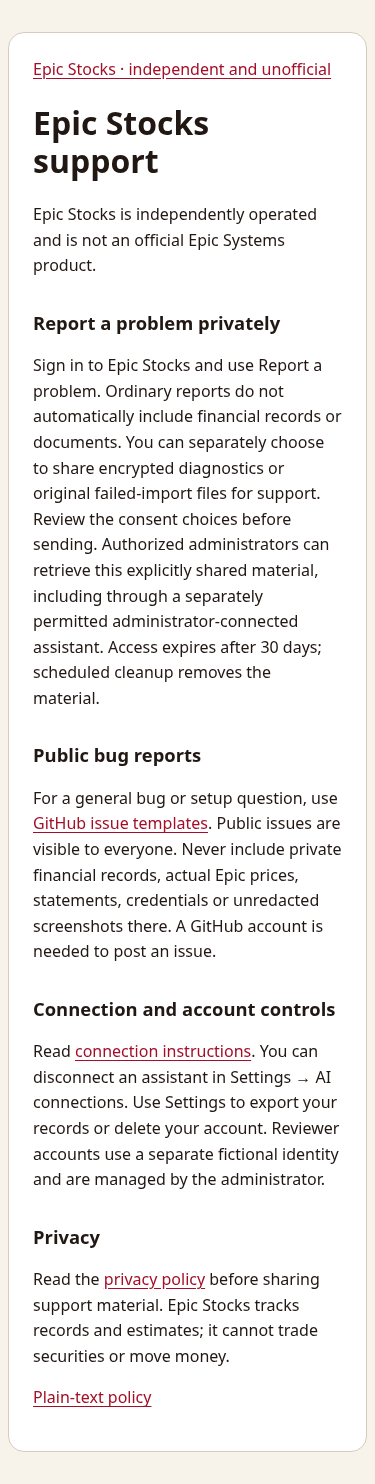
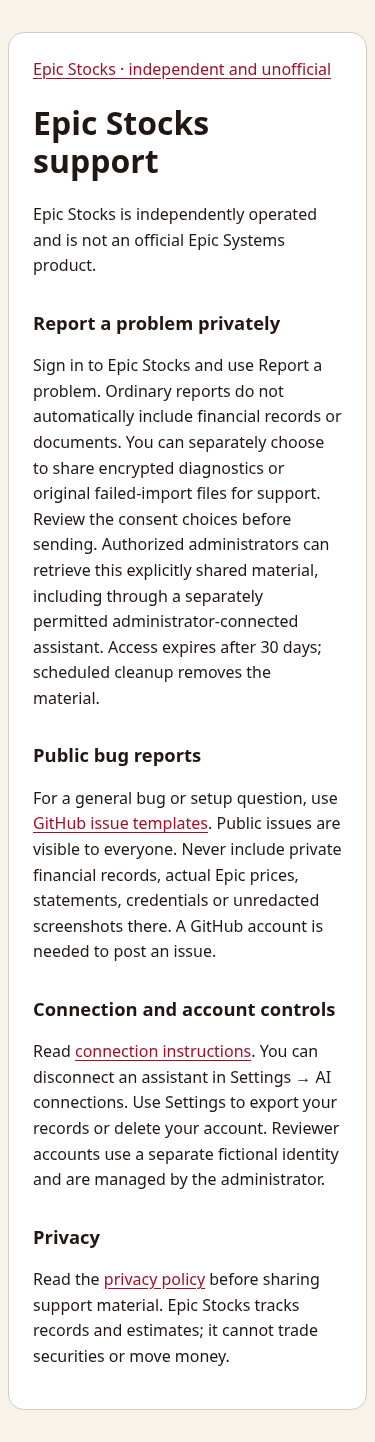
Preserve numbered privacy lists and llms document structure

Changed region(s): [[0.088, 0.0312, 0.9093, 0.9674]]

diff --git a/frontend/e2e/screenshots.spec.ts b/frontend/e2e/screenshots.spec.ts
@@ -1266,6 +1266,9 @@ test.describe('Public privacy screenshots', () => {
       expect((await new AxeBuilder({ page }).withTags(['wcag2a', 'wcag2aa', 'wcag21aa']).analyze()).violations).toEqual([])
       expect(await page.evaluate(() => document.documentElement.scrollWidth <= window.innerWidth)).toBe(true)
       await page.screenshot({ path: `${OUT}/public-privacy-${theme}-${size}.png` })
+      await expect(page.locator('ol')).toHaveCount(3)
+      await page.locator('ol').nth(1).scrollIntoViewIfNeeded()
+      await page.screenshot({ path: `${OUT}/public-privacy-lists-${theme}-${size}.png` })
     })
   }
 })

diff --git a/backend/scaffold/routers/public_privacy.py b/backend/scaffold/routers/public_privacy.py
@@ -18,15 +18,26 @@ def policy_text():
 
 
 def inline(text):
-    value = escape(text)
-    value = re.sub(r'\[([^\]]+)\]\((https://[^\s)]+)\)', r'<a href="\2">\1</a>', value)
-    return re.sub(r'\*\*([^*]+)\*\*', r'<strong>\1</strong>', value)
+    pattern = r'`([^`]+)`|\[([^\]]+)\]\((https://[^\s)]+)\)|\*\*([^*]+)\*\*'
+    parts, end = [], 0
+    for match in re.finditer(pattern, text):
+        parts.append(escape(text[end:match.start()]))
+        code, label, url, strong = match.groups()
+        if code is not None:
+            parts.append('<code>' + escape(code) + '</code>')
+        elif label is not None:
+            parts.append('<a href="' + escape(url, quote=True) + '">' + inline(label) + '</a>')
+        else:
+            parts.append('<strong>' + inline(strong) + '</strong>')
+        end = match.end()
+    parts.append(escape(text[end:]))
+    return ''.join(parts)
 
 
-def policy_html(text):
+def policy_html(text, *, title="Epic Stocks privacy policy", plain_policy=True):
     # Render only trusted-repository headings, paragraphs, lists and code. Raw
     # HTML is escaped; no document uploads or caller-selected paths are read.
-    parts, paragraph, listed, code = [], [], False, None
+    parts, paragraph, listed, code = [], [], None, None
     def flush():
         if paragraph:
             parts.append('<p>' + inline(' '.join(paragraph)) + '</p>')
@@ -34,6 +45,9 @@ def policy_html(text):
     for line in text.splitlines():
         if line.startswith('```'):
             flush()
+            if listed:
+                parts.append(f'</{listed}>')
+                listed = None
             if code is None:
                 code = []
             else:
@@ -43,28 +57,31 @@ def policy_html(text):
         if code is not None:
             code.append(line)
             continue
-        item = line.startswith('- ')
-        if listed and not item:
-            parts.append('</ul>')
-            listed = False
+        numbered = re.match(r'^\d+\. (.*)', line)
+        tag = 'ol' if numbered else 'ul' if line.startswith('- ') else None
+        item = numbered.group(1) if numbered else line[2:] if tag else None
+        if listed and listed != tag:
+            parts.append(f'</{listed}>')
+            listed = None
         if not line.strip():
             flush()
         elif line.startswith('#') and re.match(r'^#{1,6} ', line):
             flush()
             level = len(line) - len(line.lstrip('#'))
             parts.append(f'<h{level}>' + inline(line[level:].strip()) + f'</h{level}>')
-        elif item:
+        elif tag:
             flush()
             if not listed:
-                parts.append('<ul>')
-                listed = True
-            parts.append('<li>' + inline(line[2:]) + '</li>')
+                parts.append(f'<{tag}>')
+                listed = tag
+            parts.append('<li>' + inline(item) + '</li>')
         else:
             paragraph.append(line)
     flush()
     if listed:
-        parts.append('</ul>')
-    return '<!doctype html><html lang="en"><head><meta charset="utf-8"><meta name="viewport" content="width=device-width,initial-scale=1"><title>Epic Stocks privacy policy</title><link rel="stylesheet" href="/mcp-setup.css"></head><body><main><a href="/mcp-setup">Epic Stocks · independent and unofficial</a>' + ''.join(parts) + '<p><a href="/privacy.md">Plain-text policy</a></p></main></body></html>'
+        parts.append(f'</{listed}>')
+    footer = '<p><a href="/privacy.md">Plain-text policy</a></p>' if plain_policy else ''
+    return '<!doctype html><html lang="en"><head><meta charset="utf-8"><meta name="viewport" content="width=device-width,initial-scale=1"><title>' + escape(title) + '</title><link rel="stylesheet" href="/mcp-setup.css"></head><body><main><a href="/mcp-setup">Epic Stocks · independent and unofficial</a>' + ''.join(parts) + footer + '</main></body></html>'
 
 
 @router.api_route('/privacy-policy', methods=['GET', 'HEAD'])
@@ -99,5 +116,5 @@ Read [connection instructions](https://epic-stocks.com/mcp-setup). You can disco
 
 Read the [privacy policy](https://epic-stocks.com/privacy-policy) before sharing support material. Epic Stocks tracks records and estimates; it cannot trade securities or move money.
 '''
-    return HTMLResponse(policy_html(text).replace('<title>Epic Stocks privacy policy</title>', '<title>Epic Stocks support</title>'),
+    return HTMLResponse(policy_html(text, title='Epic Stocks support', plain_policy=False),
                         headers={'Cache-Control': 'public, max-age=300'})

diff --git a/backend/tests/test_public_privacy.py b/backend/tests/test_public_privacy.py
@@ -30,3 +30,21 @@ def test_public_support_is_readable_without_sign_in(client):
     assert 'Public issues are visible to everyone' in response.text
     assert '30 days' in response.text
     assert client.head('/support').status_code == 200
+
+
+def test_privacy_preserves_ordered_lists_and_inline_code(client):
+    body = client.get('/privacy-policy').text
+    assert body.count('<ol>') == 3
+    assert body.count('</ol>') == 3
+    assert '<li><strong>Self-host</strong>' in body
+    assert '<code>KEY_ENCRYPTION_KEY</code>' in body
+    assert '<a href="https://github.com/rahulshahepic/epic-stocks/blob/main/PRIVACY.md"><code>PRIVACY.md</code></a>' in body
+    assert '<code>[not a link](https://example.invalid)</code>' in policy_html('`[not a link](https://example.invalid)`')
+    assert 'Plain-text policy' not in client.get('/support').text
+
+
+def test_llms_document_starts_with_h1_and_keeps_policy_support_links(client):
+    text = client.get('/llms.txt').text
+    assert text.startswith('# Epic Stocks\n\n> ')
+    assert '[Privacy policy](https://epic-stocks.com/privacy-policy)' in text
+    assert '[Support](https://epic-stocks.com/support)' in text

diff --git a/backend/scaffold/routers/mcp_setup.py b/backend/scaffold/routers/mcp_setup.py
@@ -99,11 +99,11 @@ def llms():
     first_run = doc['first_run']
     import_steps = first_run['import']
     lines = [
-        'Privacy policy: ' + doc['privacy_policy_url'],
-        'Support: ' + doc['support_url'],
         f'# {doc["name"]}', '', f'> {doc["purpose"]}', '',
         f'- [MCP setup]({doc["guide_url"]}): Connection and OAuth sign-in steps.',
         f'- [Setup JSON]({doc["server_url"]}/setup.json): Server configuration and first-run instructions.',
+        f'- [Privacy policy]({doc["privacy_policy_url"]}): Data use, recipients and retention.',
+        f'- [Support]({doc["support_url"]}): Private reporting and public issue guidance.',
         '', '## After connecting', '',
     ]
     if 'staging_setup' in first_run:
